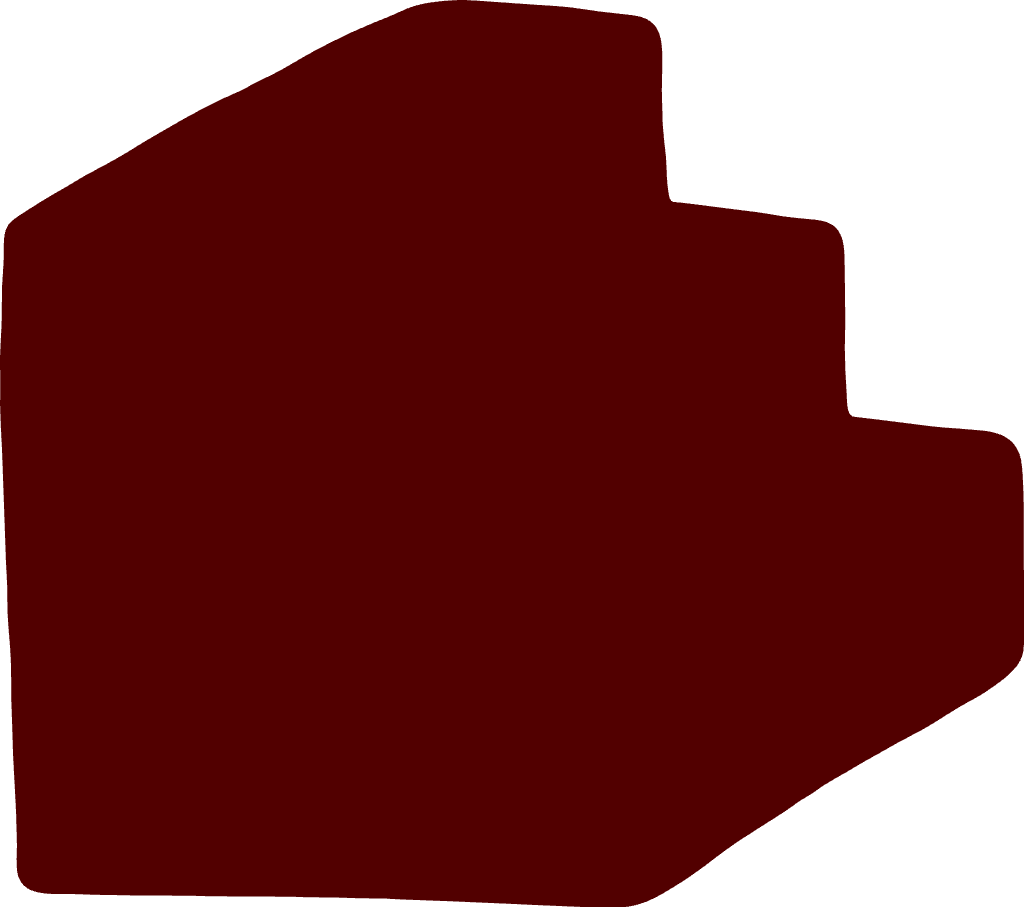
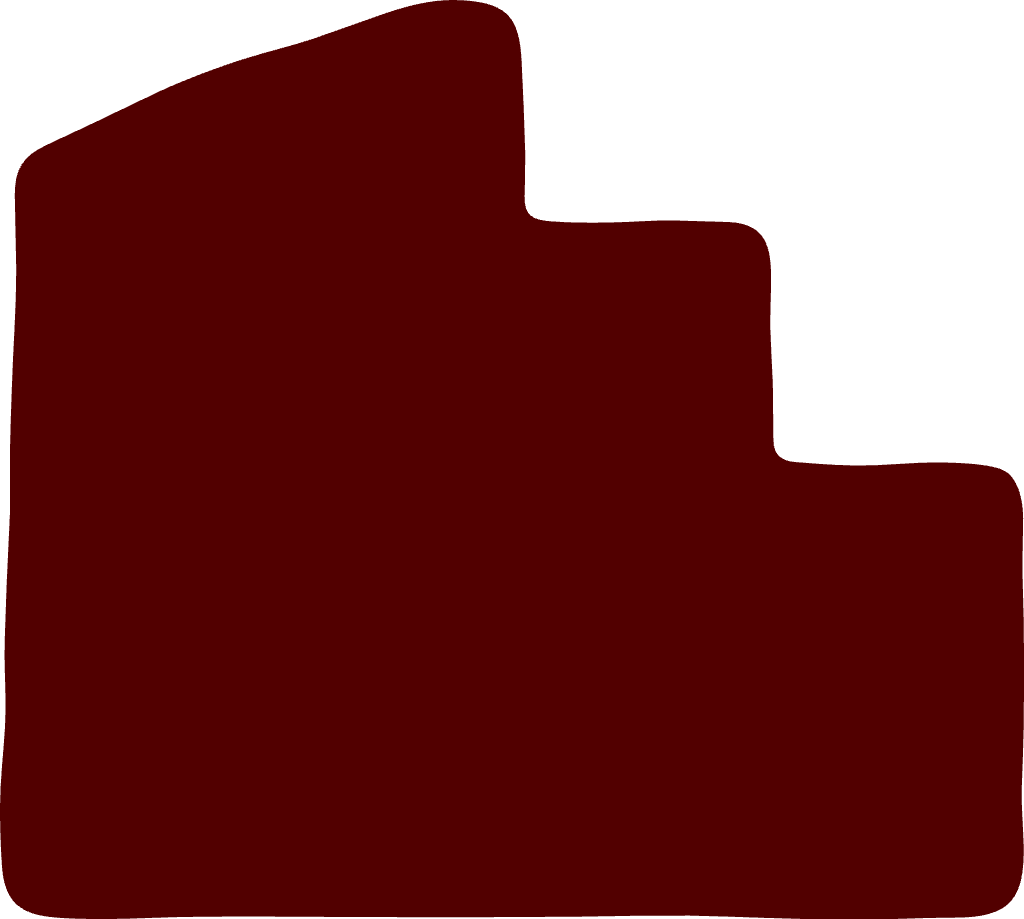
Serve new stepped brandmark as PNG (file was PNG-encoded)

diff --git a/index.html b/index.html
@@ -4,7 +4,7 @@
 <style>html,body{margin:0;height:100%}[hidden]{display:none!important}</style>
 <meta charset="utf-8">
 <title>Local Time House</title>
-<link rel="icon" type="image/svg+xml" href="brandmark.svg">
+<link rel="icon" type="image/png" href="brandmark.png">
 <link rel="apple-touch-icon" href="brandmark.png">
 <meta name="description" content="Interactive 3D architectural model of Local Time House in Andes, NY — explore rooms, walk through, tour seasons, and see day &amp; night lighting.">
 <meta property="og:type" content="website">
@@ -323,7 +323,7 @@ body.m.touring .tour-label { flex: 1; min-width: 0; }
 <aside id="panel" class="card">
   <div class="titleblock">
     <div class="tb-text">
-      <h1><img class="brandmark" src="brandmark.svg" alt="" width="30" height="27"><img class="wordmark" src="wordmark.png" alt="Local Time House" width="1024" height="90"></h1>
+      <h1><img class="brandmark" src="brandmark.png" alt="" width="30" height="27"><img class="wordmark" src="wordmark.png" alt="Local Time House" width="1024" height="90"></h1>
       <div class="meta"><span>Andes, NY</span></div>
     </div>
     <div class="tb-actions">
@@ -461,7 +461,7 @@ body.m.touring .tour-label { flex: 1; min-width: 0; }
 <div id="act-toast" class="act-hint act-toast" hidden></div>
 <div id="reticle" aria-hidden="true"></div>
 <div id="spots" aria-hidden="true"></div>
-<div id="mtitle"><img class="brandmark" src="brandmark.svg" alt="" width="22" height="20"><img class="wordmark" src="wordmark.png" alt="Local Time House" width="1024" height="90"></div>
+<div id="mtitle"><img class="brandmark" src="brandmark.png" alt="" width="22" height="20"><img class="wordmark" src="wordmark.png" alt="Local Time House" width="1024" height="90"></div>
 <div id="mintro"><b>Tap anything.</b>Drag to look around · pinch to zoom · try the fridge</div>
 <div id="mchips">
   <button id="chip-floors" type="button" aria-label="Toggle floors"></button>
